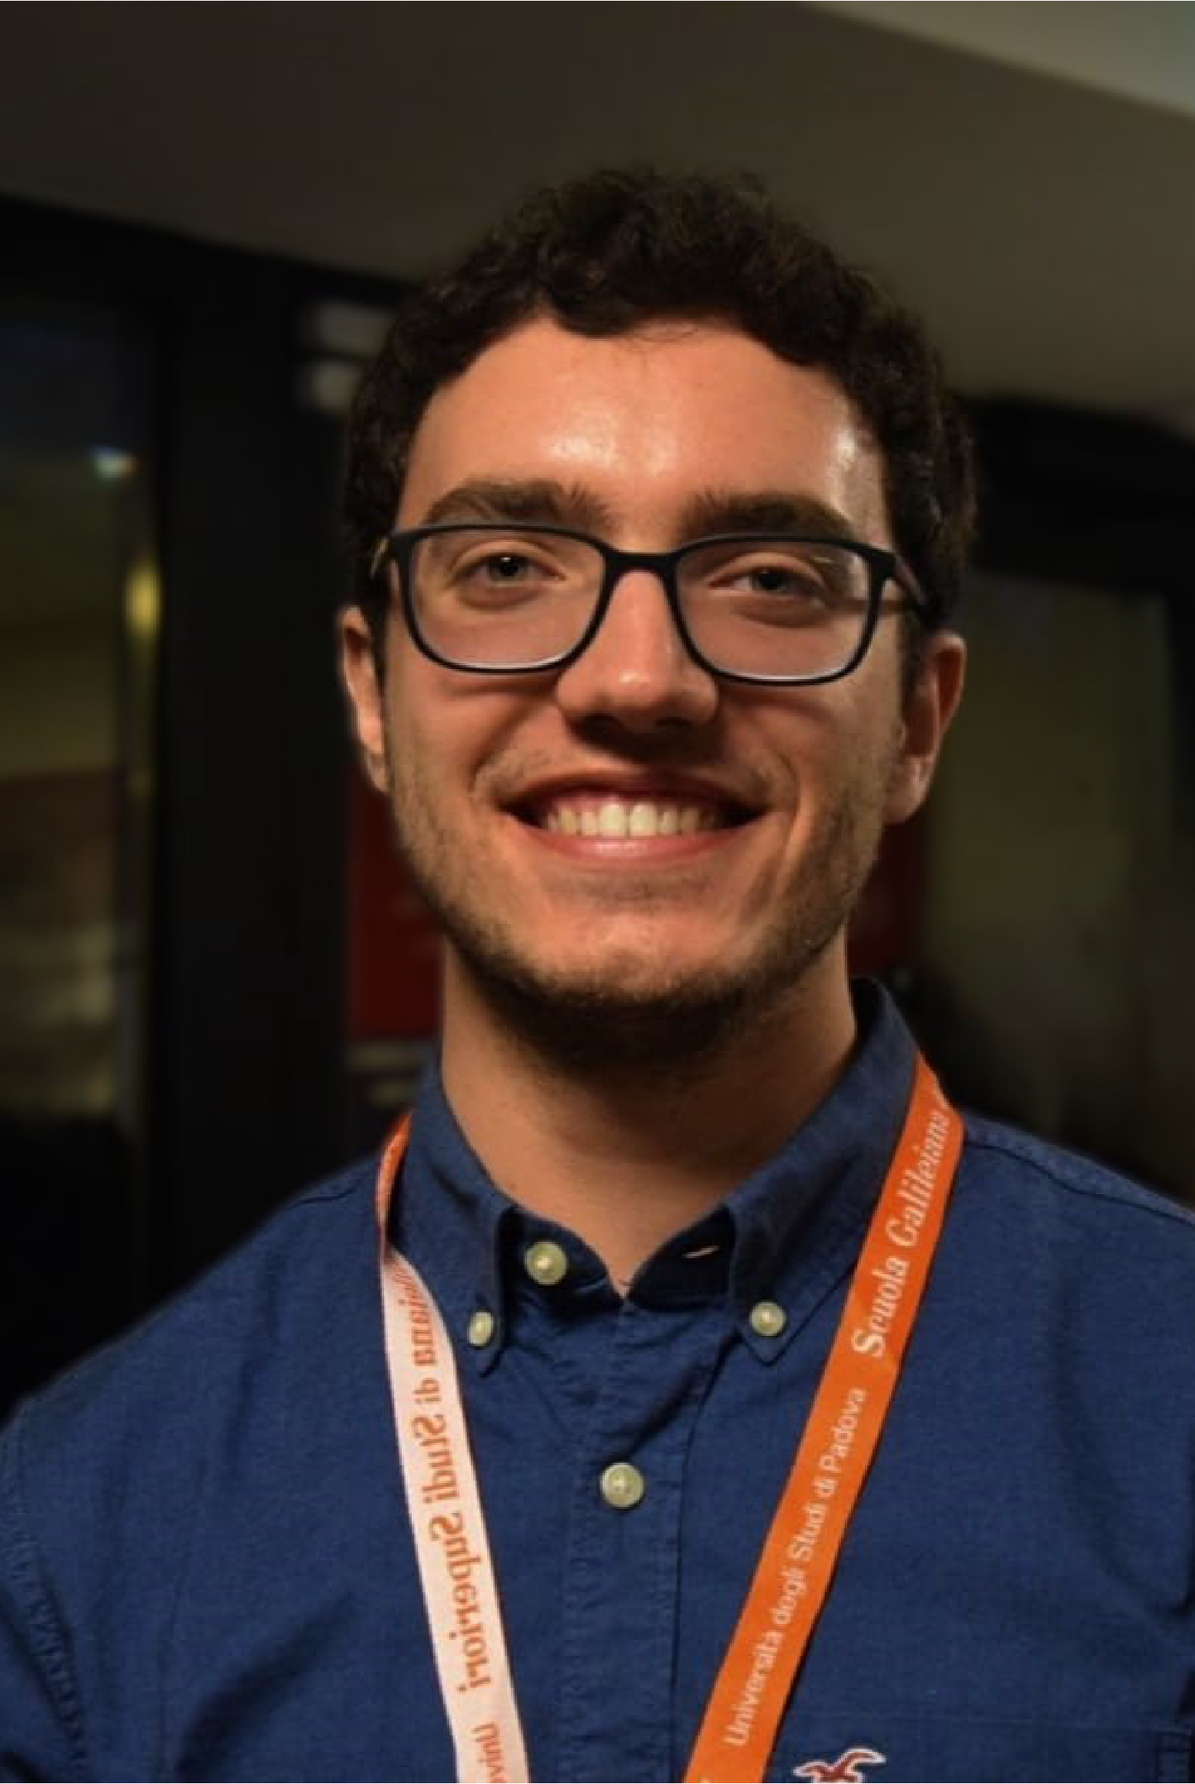
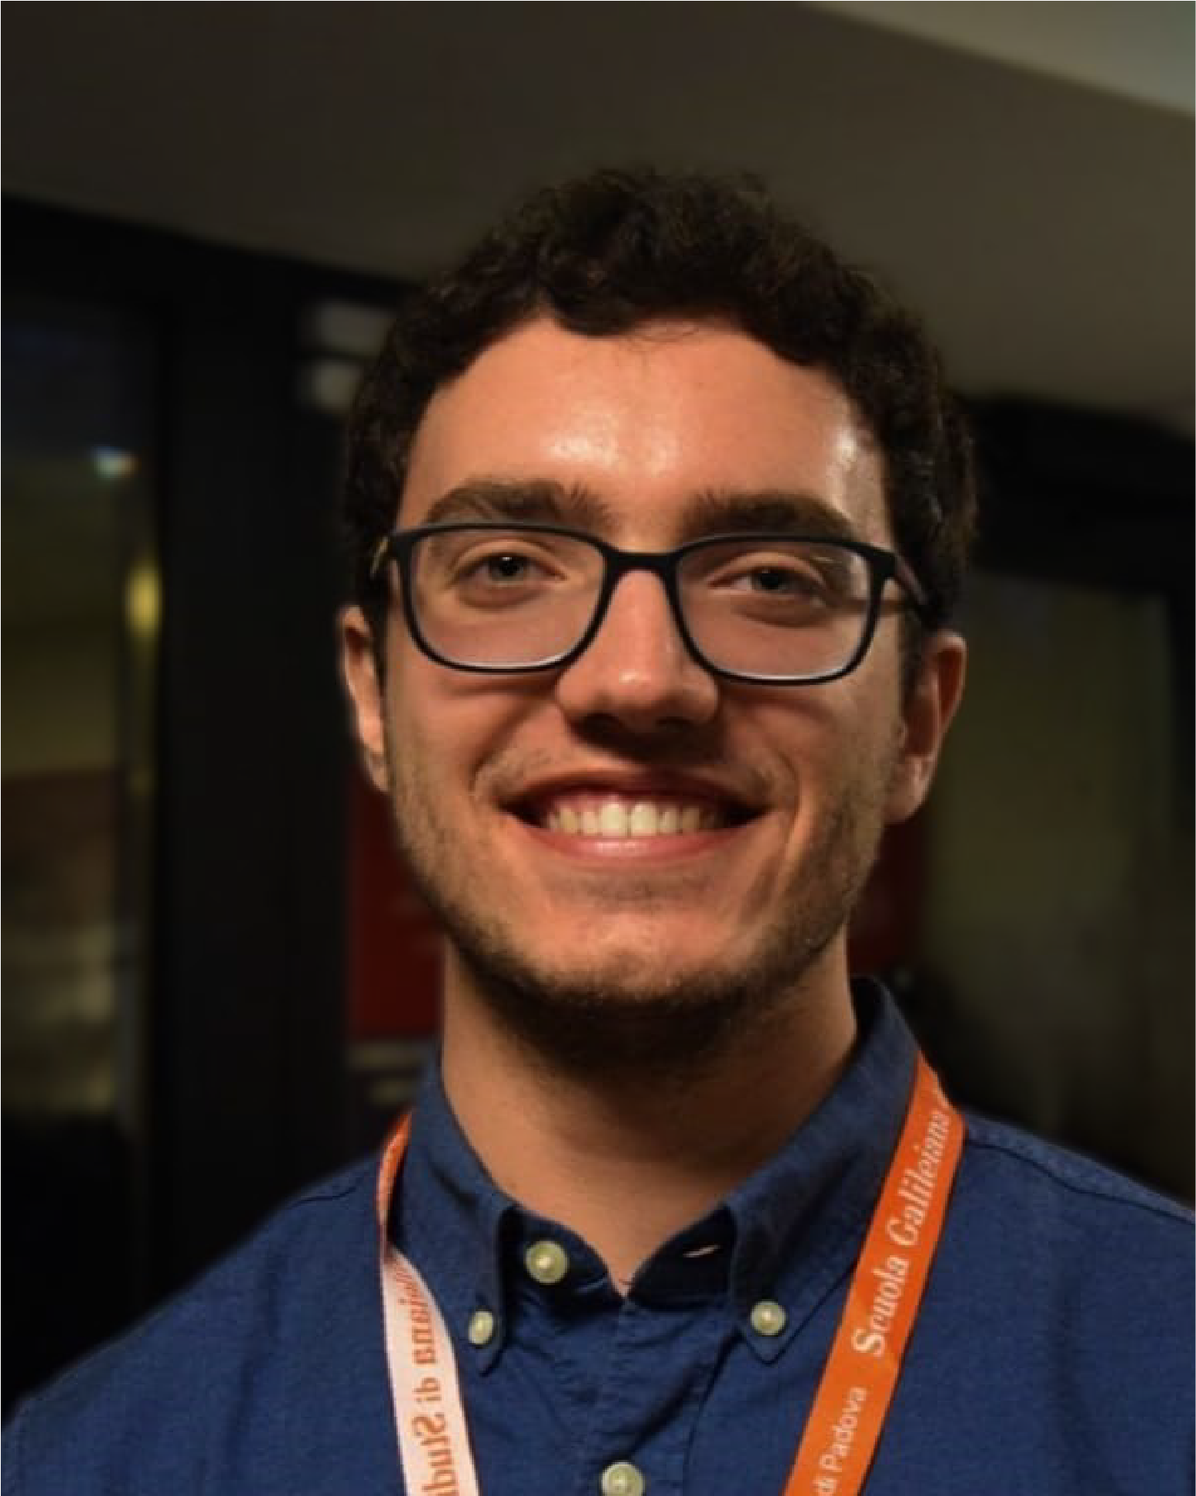
improved ui

diff --git a/src/data/json-files/schoolsData.js b/src/data/json-files/schoolsData.js
@@ -22,14 +22,14 @@ export const schoolsData = [
         "description": "La Scuola Superiore di Catania è stata fondata nel 1998 all’interno dell’Università degli Studi di Catania. Le prove del concorso di ammissione - rivolto agli studenti iscritti al I anno di un CdL triennale o magistrale a ciclo unico - si articolano in due Classi: la Classe delle Scienze umanistiche e sociali e la Classe delle Scienze sperimentali. Il superamento delle prove di concorso garantisce agli Allievi vitto e alloggio gratuiti presso Villa San Saverio, nonché sussidi finanziari per esperienze di mobilità. L’offerta formativa della Scuola si articola in una serie di corsi, differenziati negli anni: strumentali, interdisciplinari e di laboratorio (rivolti a studenti di primo e secondo anno); specialistici (affiancati all’attività di ricerca a partire dal terzo anno); corsi certificati di lingua straniera. A partire dal secondo anno, gli Allievi individuano un docente tutor, che coordina l’attività di ricerca attraverso progetti di formazione negli ambiti disciplinari designati dall’Allievo. La Scuola promuove periodi di soggiorno all’estero attraverso specifici contributi finanziari, nonché scambi presso le Università e istituzioni convenzionate. Il percorso formativo si conclude mediante la stesura di una tesi di diploma, valevole come Master accademico di II livello.",
         "data": [
             {
-                "nome": "Fabio",
-                "cognome": "Longo",
-                "email": "fabio.longo@catania.it"
+                "nome": "Giuseppe Stefano",
+                "cognome": "Basile",
+                "email": "giuseppe.stefano.basile@riasissu.it"
             },
             {
-                "nome": "Silvia",
-                "cognome": "Testa",
-                "email": "silvia.testa@catania.it"
+                "nome": "Marco",
+                "cognome": "Anfuso",
+                "email": "marco.anfuso@riasissu.it"
             }
         ]
     },
@@ -44,14 +44,14 @@ export const schoolsData = [
         "description": "",
         "data": [
             {
-                "nome": "Luca",
-                "cognome": "Verdi",
-                "email": "luca.verdi@pisa.it"
+                "nome": "Marcello",
+                "cognome": "Zeni",
+                "email": "marcello.zeni@riasissu.it"
             },
             {
-                "nome": "Martina",
-                "cognome": "Neri",
-                "email": "martina.neri@pisa.it"
+                "nome": "Alessio",
+                "cognome": "Casalini",
+                "email": "alessio.casalini@riasissu.it"
             }
         ]
     },
@@ -64,16 +64,16 @@ export const schoolsData = [
         "image": iuss,
         "description": "",
         "data": [
-            {
-                "nome": "Francesco",
-                "cognome": "Russo",
-                "email": "francesco.russo@pavia.it"
-            },
-            {
-                "nome": "Sara",
-                "cognome": "Ferrari",
-                "email": "sara.ferrari@pavia.it"
-            }
+        {
+            "nome": "Alberto",
+            "cognome": "Anelli",
+            "email": "alberto.anelli@riasissu.it"
+        },
+        {
+            "nome": "Paride",
+            "cognome": "Brogiolo",
+            "email": "paride.brogiolo@riasissu.it"
+        }
         ]
     },
     {
@@ -85,16 +85,16 @@ export const schoolsData = [
         "luogo": "Udine",
         "image": toppo,
         "data": [
-            {
-                "nome": "Paolo",
-                "cognome": "Gallo",
-                "email": "paolo.gallo@camerino.it"
-            },
-            {
-                "nome": "Elena",
-                "cognome": "Romano",
-                "email": "elena.romano@camerino.it"
-            }
+        {
+            "nome": "Maddalena",
+            "cognome": "Feltrin",
+            "email": "maddalena.feltrin@riasissu.it"
+        },
+        {
+            "nome": "Niccolò",
+            "cognome": "Gaspari",
+            "email": "niccolò.gaspari@riasissu.it"
+        }
         ]
     },
     {
@@ -107,14 +107,14 @@ export const schoolsData = [
         "description": "Il Collegio Superiore, fondato nel 1998 presso l’Alma Mater Studiorum — Università di Bologna, offre percorsi formativi interdisciplinari avanzati a studentɜ selezionatɜ dell’Università. La didattica si articola in corsi integrati, tenuti da docenti di discipline diverse, e seminari. Lɜ collegiali sono ospitatɜ nella residenza Irnerio, nel centro di Bologna, possono partecipare a scambi con Scuole di eccellenza italiane ed estere e ricevono benefici economici (borsa di studio ed esenzione tasse) decisi annualmente. Ogni collegiale è inoltre seguitɜ da un tutor di alto profilo. Al termine dei 5 anni di Collegio e in seguito alla presentazione di un elaborato finale, lɜ collegiali ricevono un titolo equiparato a Master di II livello. Ogni anno vengono banditi posti per studentɜ di area umanistico-economica e di area scientifico-tecnica, in procinto di iniziare il primo anno di un corso di laurea triennale, magistrale o magistrale a ciclo unico.",
         "data": [
             {
-                "nome": "Simone",
-                "cognome": "Costa",
-                "email": "simone.costa@bologna.it"
+                "nome": "Lorenzo",
+                "cognome": "Ciaffi",
+                "email": "lorenzo.ciaffi@riasissu.it"
             },
             {
-                "nome": "Chiara",
-                "cognome": "Marini",
-                "email": "chiara.marini@bologna.it"
+                "nome": "Ginevra",
+                "cognome": "Barbato",
+                "email": "ginevra.barbato@riasissu.it"
             }
         ]
     },
@@ -128,14 +128,14 @@ export const schoolsData = [
         "description": "Fondata nel 1999, la Scuola Superiore ISUFI è un Istituto Superiore Universitario di Formazione Interdisciplinare incardinato nell’Università del Salento. Alla Scuola si accede tramite concorso per merito che viene bandito annualmente per le tre aree disciplinari (economico-giuridica, tecnico-scientifica ed umanistico-sociale). È possibile accedere al primo e secondo anno di Laurea Triennale/Magistrale a Ciclo Unico e al primo anno di Laurea Magistrale. Agli allievi selezionati, la Scuola offre l’alloggio presso il College, l’esenzione dalle tasse universitarie e un contributo mensile. L’offerta didattica è costituita da 2 corsi semestrali da 30 ore cadauno affiancati da diverse attività seminariali. Gli studenti inoltre hanno la possibilità di seguire i lettorati di lingue e devono svolgere un semestre di studi all’estero. Al termine del percorso, in seguito alla discussione di una tesi finale, la Scuola rilascia un titolo equiparato ad un Master di II livello.",
         "data": [
             {
-                "nome": "Davide",
-                "cognome": "Greco",
-                "email": "davide.greco@lecce.it"
+                "nome": "Edoardo",
+                "cognome": "Presicce",
+                "email": "edoardo.presicce@riasissu.it"
             },
             {
-                "nome": "Valentina",
-                "cognome": "Fontana",
-                "email": "valentina.fontana@lecce.it"
+                "nome": "Sabrina",
+                "cognome": "Zappatore",
+                "email": "sabrina.zappatore@riasissu.it"
             }
         ]
     },
@@ -149,14 +149,14 @@ export const schoolsData = [
         "description": "Fondata nel 2008 presso l’Università degli Studi di Macerata, la “Scuola di Studi Superiori Giacomo Leopardi” è un istituto di alta formazione che si affianca ai corsi universitari e coltiva il talento di studentɜ selezionatɜ sulla base del solo merito. Ogni anno vengono banditi 10 posti per l’accesso al primo anno di un corso di laurea triennale o magistrale a ciclo unico e 2 posti per l’accesso al primo anno di un corso di laurea magistrale, ripartiti fra le due classi di Scienze Umanistiche e Scienze Sociali. L’offerta formativa si articola in seminari disciplinari e interdisciplinari tenuti da docenti di fama nazionale e internazionale, che consentono allɜ allievɜ di costruire un bagaglio di conoscenze ampio e trasversale avviandolɜ all’attività di ricerca. Lɜ allievɜ godono di una serie di benefici, fra i quali: esenzione dalle tasse universitarie, vitto gratuito presso le mense universitarie della città e alloggio gratuito presso la residenza Lombroso, situata all’interno del Collegio Universitario Matteo Ricci-Li Madou e immersa nel verde. Lɜ allievɜ hanno inoltre la possibilità di partecipare a scambi-mobilità con Scuole d’eccellenza italiane ed estere e sono seguitɜ da un tutor individuale. Al termine del percorso quinquennale, in seguito all’adempimento dei requisiti richiesti e alla discussione di una tesi finale, la Scuola rilascia un diploma equiparato a Master di II livello.",
         "data": [
             {
-                "nome": "Giorgio",
-                "cognome": "Sartori",
-                "email": "giorgio.sartori@macerata.it"
+                "nome": "Giorgia",
+                "cognome": "Pazzi",
+                "email": "giorgia.pazzi@riasissu.it"
             },
             {
-                "nome": "Alessia",
-                "cognome": "Villa",
-                "email": "alessia.villa@macerata.it"
+                "nome": "Serena",
+                "cognome": "Cinquepalmi",
+                "email": "serena.cinquepalmi@riasissu.it"
             }
         ]
     },
@@ -170,14 +170,14 @@ export const schoolsData = [
         "description": "<p>La Scuola di Studi Superiori dell’Università degli Studi di Torino, di seguito indicata SSST, offre corsi che integrano il percorso formativo seguito dagli studenti iscritti ai Corsi di Studio dell’Ateneo. L’ammissione alla SSST avviene per concorso nazionale pubblico, esclusivamente sulla base di criteri di merito. I criteri di permanenza consistono nella frequenza di corsi (da 3 o 6 cfu) e sostenimento dei relativi esami per un totale di 15 cfu all’anno per 5 anni. Agli Studenti è richiesto il mantenimento di una media di almeno 27 trentesimi, sia dei corsi SSST che di quelli di Ateneo. Gli studenti che rispettano i suddetti criteri fruiscono di: </p> <ul> <li> ospitalità gratuita nelle residenze universitarie convenzionate</li>  <li>rimborso delle tasse universitarie</li>  <li>un contributo per lo studio. I corsi della Scuola affiancano quelli a cui sono iscritti gli studenti, integrandoli sia nei contenuti sia nelle forme di insegnamento. Sono dedicati a temi di forte impatto socio-politico, con particolare attenzione allo sviluppo sostenibile, e affrontati integrando scienze umane e della natura. Il corpo docente è composto sia da professori dell\'Università di Torino che da studiosi provenienti dall\'esterno - dall\'Italia e dall\'estero - in qualità di visiting professor.</li></ul>",
         "data": [
             {
-                "nome": "Matteo",
-                "cognome": "Conti",
-                "email": "matteo.conti@torino.it"
+                "nome": "Matilde",
+                "cognome": "Valfrè",
+                "email": "matilde.valfre@riasissu.it"
             },
             {
-                "nome": "Federica",
-                "cognome": "De Luca",
-                "email": "federica.deluca@torino.it"
+                "nome": "Matteo",
+                "cognome": "Gotta",
+                "email": "matteo.gotta@riasissu.it"
             }
         ]
     },
@@ -191,14 +191,14 @@ export const schoolsData = [
         "description": "",
         "data": [
             {
-                "nome": "Andrea",
-                "cognome": "Barbieri",
-                "email": "andrea.barbieri@santanna.it"
+                "nome": "Edoardo",
+                "cognome": "Spataro",
+                "email": "edoardo.spataro@riasissu.it"
             },
             {
-                "nome": "Laura",
-                "cognome": "Gentile",
-                "email": "laura.gentile@santanna.it"
+                "nome": "Giovanni",
+                "cognome": "Papi",
+                "email": "giovanni.papi@riasissu.it"
             }
         ]
     },
@@ -212,14 +212,14 @@ export const schoolsData = [
         "description": "<p>Istituita nel 2011 presso “La Sapienza - Università di Roma”, la SSAS offre un percorso formativo complementare di alta qualificazione per alliev3 meritevol3 iscritti ad un corso di laurea Sapienza. Gli alliev3 sono ospitati presso la Residenza “L. Serianni”, hanno diritto ad una borsa di studio e all’esenzione da tasse universitarie. L’offerta didattica si articola in:</p> <ul> <li>due corsi disciplinari semestrali a scelta ed afferenti alle diverse classi accademiche;</li> <li>un corso interdisciplinare su una tematica condivisa, studiata collettivamente con diverse - prospettive e metodi e i cui risultati vengono presentati durante il Simposio SSAS;</li><li>un progetto di ricerca annuale. Gli allievi, inoltre, sono seguiti nel proprio percorso accademico da un tutor scelto tra i fellows della Scuola e possono partecipare a scambi nazionali e internazionali con altre Scuole. Al termine di un percorso SSAS di 5 anni la Scuola eroga un titolo equiparato ad un Master di II livello.</li></ul>",
         "data": [
             {
-                "nome": "Riccardo",
-                "cognome": "Ferri",
-                "email": "riccardo.ferri@roma.it"
+                "nome": "Daniele",
+                "cognome": "Calogero",
+                "email": "daniele.calogero@riasissu.it"
             },
             {
-                "nome": "Elisa",
-                "cognome": "Moretti",
-                "email": "elisa.moretti@roma.it"
+                "nome": "Alessandro",
+                "cognome": "Modesto",
+                "email": "alessandro.modesto@riasissu.it"
             }
         ]
     },
@@ -234,14 +234,14 @@ export const schoolsData = [
         "description": "La Scuola Galileiana nasce nel 2004 ed è composta da student* che frequentano corsi di Laurea presso l’Università degli Studi di Padova. La Scuola è divisa in tre classi: Scienze Naturali (14 posti), Scienze Morali (8 posti) e Scienze Sociali (8 posti). Inoltre, da quest’anno sono aperte le iscrizioni per la magistrale. La vita della Scuola è scandita da corsi interni inerenti alle aree disciplinari delle tre classi e da eventi - spesso estesi al pubblico - come seminari e conferenze. Valore fondante della Scuola è la collegialità: all’interno della residenza, l* student* intessono legami di amicizia che resistono nel tempo. Coloro i quali concludano il proprio percorso quinquennale all’interno della Scuola ricevono un diploma, comparato a Master di secondo livello. L* student* hanno diritto ad un bonus mobilità, bonus acquisto libri e a vitto e alloggio gratuiti per tutta la durata del loro percorso; infine, sono seguiti da un* tutor cui possono rivolgersi per ogni eventualità.",
         "data": [
             {
-                "nome": "Stefano",
-                "cognome": "Rinaldi",
-                "email": "stefano.rinaldi@padova.it"
+                "nome": "Vittorio",
+                "cognome": "Magnaguagno",
+                "email": "vittorio.magnaguagno@riasissu.it"
             },
             {
-                "nome": "Marta",
-                "cognome": "Serra",
-                "email": "marta.serra@padova.it"
+                "nome": "Chiara",
+                "cognome": "Novelli",
+                "email": "chiara.novelli@riasissu.it"
             }
         ]
     },
@@ -257,14 +257,14 @@ export const schoolsData = [
         "description": "Fondato nel 2012, il Collegio Internazionale Ca’ Foscari è la Scuola Superiore Universitaria dell’Ateneo veneziano. I collegiali sono ospitati presso la residenza Camplus nel centro di Venezia. Le vocazioni primarie del Collegio sono l’interdisciplinarietà e l’internazionalità. La lingua ufficiale del Collegio è l’inglese e l’offerta formativa rimarca il modello anglosassone grazie ai tre percorsi minor che caratterizzano il percorso formativo triennale. Il programma culturale viene completato anche dai cosiddetti Lab, ovvero corsi brevi di carattere trasversale, conferenze, workshops, convegni internazionali. Inoltre ogni studente è seguito da un professore del Board Accademico del Collegio. Il Collegio consente l’ingresso anche a studenti magistrali, i quali possono scegliere di frequentare un percorso in scienze umanistiche o in scienze sociali. Il percorso Collegiale prevede anche un periodo obbligatorio all’estero per ciclo di studi, in modo da ampliare quanto più possibile gli orizzonti dei propri allievi. Le selezioni avvengono indicativamente a inizio maggio per gli allievi triennali e a luglio per gli allievi magistrali. Il bando viene pubblicato un mese prima. Alla fine del percorso quinquennale, dopo aver adempiuto ai requisiti e aver discusso una tesi finale, il Collegio rilascia un diploma equiparato a Master di II livello.",
         "data": [
             {
-                "nome": "Alessandro",
-                "cognome": "Rossi",
-                "email": "alessandro.rossi@venezia.it"
+                "nome": "Giuseppe",
+                "cognome": "Romeo",
+                "email": "giuseppe.romeo@riasissu.it"
             },
             {
-                "nome": "Giulia",
-                "cognome": "Bianchi",
-                "email": "giulia.bianchi@venezia.it"
+                "nome": "Matilde",
+                "cognome": "Mori",
+                "email": "matilde.mori@riasissu.it"
             }
         ]
     },

diff --git a/src/data/json-files/giuntaData.js b/src/data/json-files/giuntaData.js
@@ -9,13 +9,15 @@ export const giuntaData = [
         nome: "Maddalena",
         cognome: "Feltrin",
         ruolo: "Coordinatrice Nazionale",
-        description: "Coordinatrice del progetto RIASISSU",
+        scuola: "Scuola Superiore di Toppo Wassermann di Udine",
+        description: "Maddalena Feltrin è allieva al III anno della \"Scuola Superiore di Toppo Wassermann\" dell'Università di Udine. Laureanda in lettere classiche, si interessa di letteratura, archeologia e didattica. Creativa e intraprendente, ama viaggiare, cucinare e disegnare; nel tempo libero si dedica ad attività di volontariato e nel futuro vorrebbe diventare una professoressa. Rappresentante per la sua Scuola da gennaio 2024 e referente di commissione Orientamento, da quest'anno ha deciso di impegnarsi ancor di più per la Rete al fine di organizzare e coordinare nuove concrete occasioni di scambio tra lɜ sociɜ: il sentimento di appartenenza a un'Associazione nazionale e il quotidiano dialogo tra allievɜ sono le opportunità promosse dalla Rete che più le stanno a cuore.",
         picture: coordinatore_photo
     },
     {
         id: "vice",
         nome: "Giovanni",
         cognome: "Papi",
+        scuola: "Scuola Superiore Sant'Anna di Pisa",
         ruolo: "Coordinatore Nazionale Vicario",
         description: "",
         picture: vice_photo
@@ -25,6 +27,7 @@ export const giuntaData = [
         nome: "Giorgia",
         cognome: "Pazzi",
         ruolo: "Segretaria",
+        scuola: "Scuola di Studi Superiori \"G. Leopardi\" di Macerata",
         description: "Giorgia Pazzi è un'Allieva al quinto anno della Scuola di Studi Superiori \"G. Leopardi\" dell'Università di Macerata, e Rappresentante nella RIASISSU dal 2023. Laureata triennale in \"Lingue e culture straniere occidentali e orientali\" e alla fine del suo percorso magistrale in \"Lingue, culture e traduzione letteraria\", i suoi principali interessi ruotano intorno allo studio della letteratura - con una particolare predilezione per quella russa e per Dostoevskij -, ma spaziano anche dalla psicologia e criminologia all'ambito politico-economico, dalla sociologia alla filosofia. Si considera inoltre un'Allieva molto affezionata della propria Scuola, e crede che lo spirito di Rete promosso da RIASISSU sia fondamentale ad uno sviluppo sempre maggiore della comunità di cui tutt3 l3 Alliev3 delle Scuole di Studi Superiori Universitari fanno parte.",
         picture: segretario_photo
     },
@@ -32,6 +35,7 @@ export const giuntaData = [
         id: "tesoriere",
         nome: "Vittorio",
         ruolo: "Tesoriere",
+        scuola: "Scuola Galileiana di Studi Superiori di Padova",
         cognome: "Magnaguagno",
         description: "Vittorio Magnaguagno è un allievo della classe di Scienze Sociali della Scuola Galileiana di Studi Superiori ed è iscritto al corso di laurea in Scienze Psicologiche Sociali e del Lavoro presso l'Università degli Studi di Padova. I suoi interessi accademici ricadono principalmente negli ambiti della psicologia applicata, nello specifico verso le dimensioni legate alla psicologia dei gruppi e alla psicologia della decisione. Oltre a ciò si diverte a giocare con i lego, ascoltare musica classica e cucinare ottimi risotti. Dall’estate 2024 ricopre il ruolo di rappresentante Riasissu per la Scuola Galileiana e dal dicembre dello stesso anno è parte della Giunta Esecutiva in qualità di tesoriere, supportando la Coordinatrice Nazionale nell’amministrazione delle risorse della rete e nei principali adempimenti burocratici.",
         picture: tesoriere_photo

diff --git a/src/styles/global.css b/src/styles/global.css
@@ -1,7 +1,14 @@
 /* Layout rules */
 html {
-	@apply scroll-smooth antialiased;
+	@apply scroll-smooth antialiased ;
+	
 }
+
+* {
+	@apply [&::-webkit-scrollbar]:w-1 [&::-webkit-scrollbar-track]:bg-gray-100 dark:[&::-webkit-scrollbar-track]:bg-gray-800 [&::-webkit-scrollbar-thumb]:bg-gray-300 dark:[&::-webkit-scrollbar-thumb]:bg-gray-600 [&::-webkit-scrollbar-track]:rounded-full 
+}
+
+
 
 body {
 	@apply bg-white text-neutral-500 has-[.header\_\_menu--open]:overflow-hidden lg:has-[.header\_\_menu--open]:overflow-auto dark:bg-neutral-950 dark:text-neutral-400 [.dark_&]:text-neutral-400 [.light_&]:text-neutral-500;
